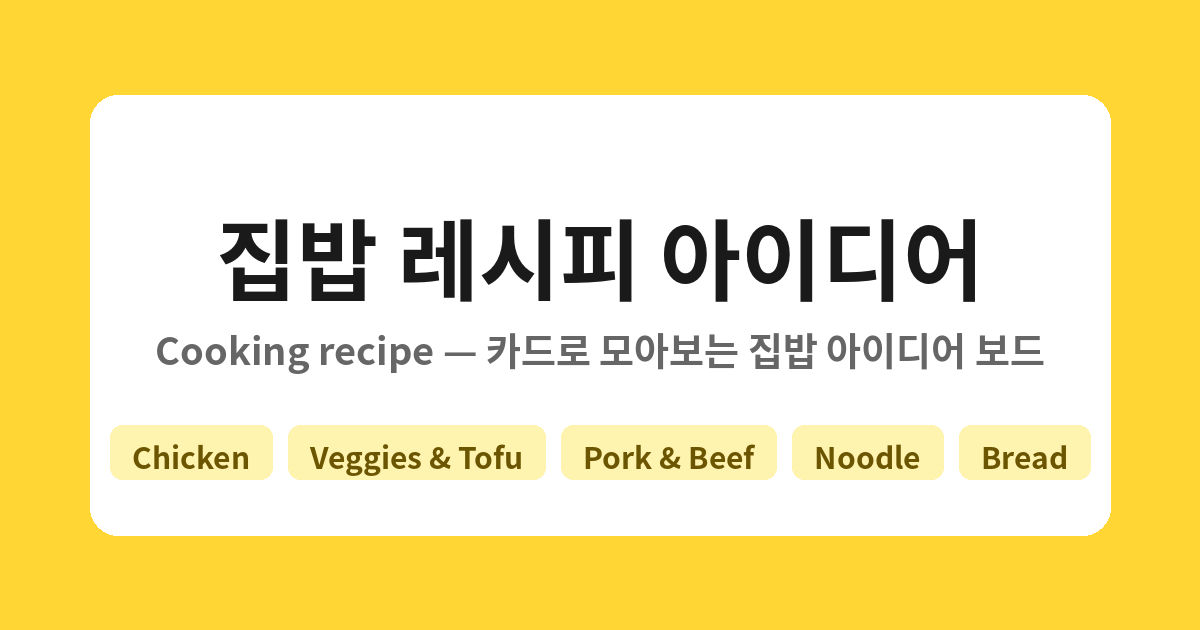
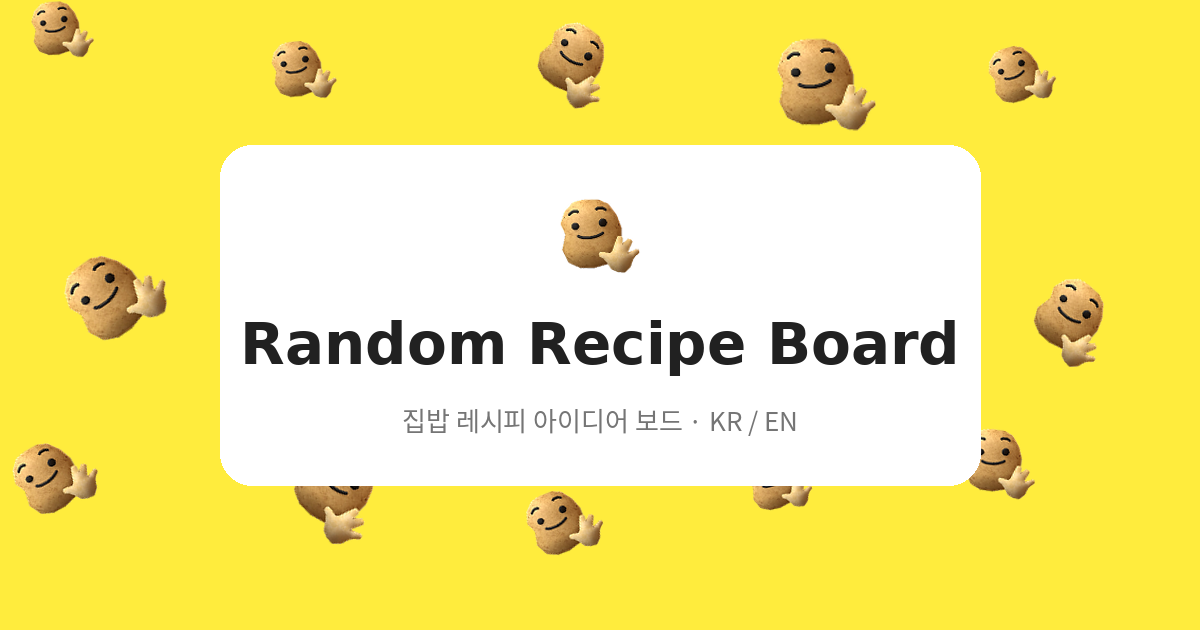
Random potato OG image + Korean typography (Chiron GoRound TC / SUIT)

diff --git a/index.html b/index.html
@@ -11,7 +11,8 @@
 <!-- Google Fonts: Stack Sans Text (headers) + Roboto (body) -->
 <link rel="preconnect" href="https://fonts.googleapis.com">
 <link rel="preconnect" href="https://fonts.gstatic.com" crossorigin>
-<link href="https://fonts.googleapis.com/css2?family=Stack+Sans+Text:wght@700&family=Stack+Sans+Headline:wght@700&family=Roboto:wght@400;500;700&display=swap" rel="stylesheet">
+<link href="https://fonts.googleapis.com/css2?family=Stack+Sans+Text:wght@700&family=Stack+Sans+Headline:wght@700&family=Chiron+GoRound+TC:wght@700&family=Roboto:wght@400;500;700&display=swap" rel="stylesheet">
+<link href="https://cdn.jsdelivr.net/gh/sunn-us/SUIT@latest/fonts/variable/woff2/SUIT-Variable.css" rel="stylesheet">
 
 <!-- Social sharing (Open Graph / Twitter) -->
 <meta name="description" content="카드로 모아보는 집밥 레시피 아이디어 보드 — Cooking recipe idea board">
@@ -44,10 +45,12 @@
     --adm-color-box: #FFFFFF;              /* card / input surface */
     --adm-color-badge-bg: #FFF3B0;
     --adm-color-border: #E5E5E5;
-    --adm-font-family: "Roboto", -apple-system, BlinkMacSystemFont,
+    /* Latin: Roboto / Hangul: SUIT Variable */
+    --adm-font-family: "Roboto", "SUIT Variable", -apple-system, BlinkMacSystemFont,
       "Apple SD Gothic Neo", "Noto Sans KR", Tahoma, Arial, sans-serif;
-    --adm-font-head: "Stack Sans Text", "Roboto", -apple-system,
-      "Apple SD Gothic Neo", "Noto Sans KR", sans-serif;
+    /* Latin: Stack Sans / Hangul: Chiron GoRound TC → SUIT fallback */
+    --adm-font-head: "Stack Sans Text", "Chiron GoRound TC", "SUIT Variable",
+      -apple-system, "Apple SD Gothic Neo", "Noto Sans KR", sans-serif;
     --adm-radius-s: 4px;    /* button */
     --adm-radius-m: 6px;    /* search bar */
     --adm-radius-l: 8px;    /* card */
